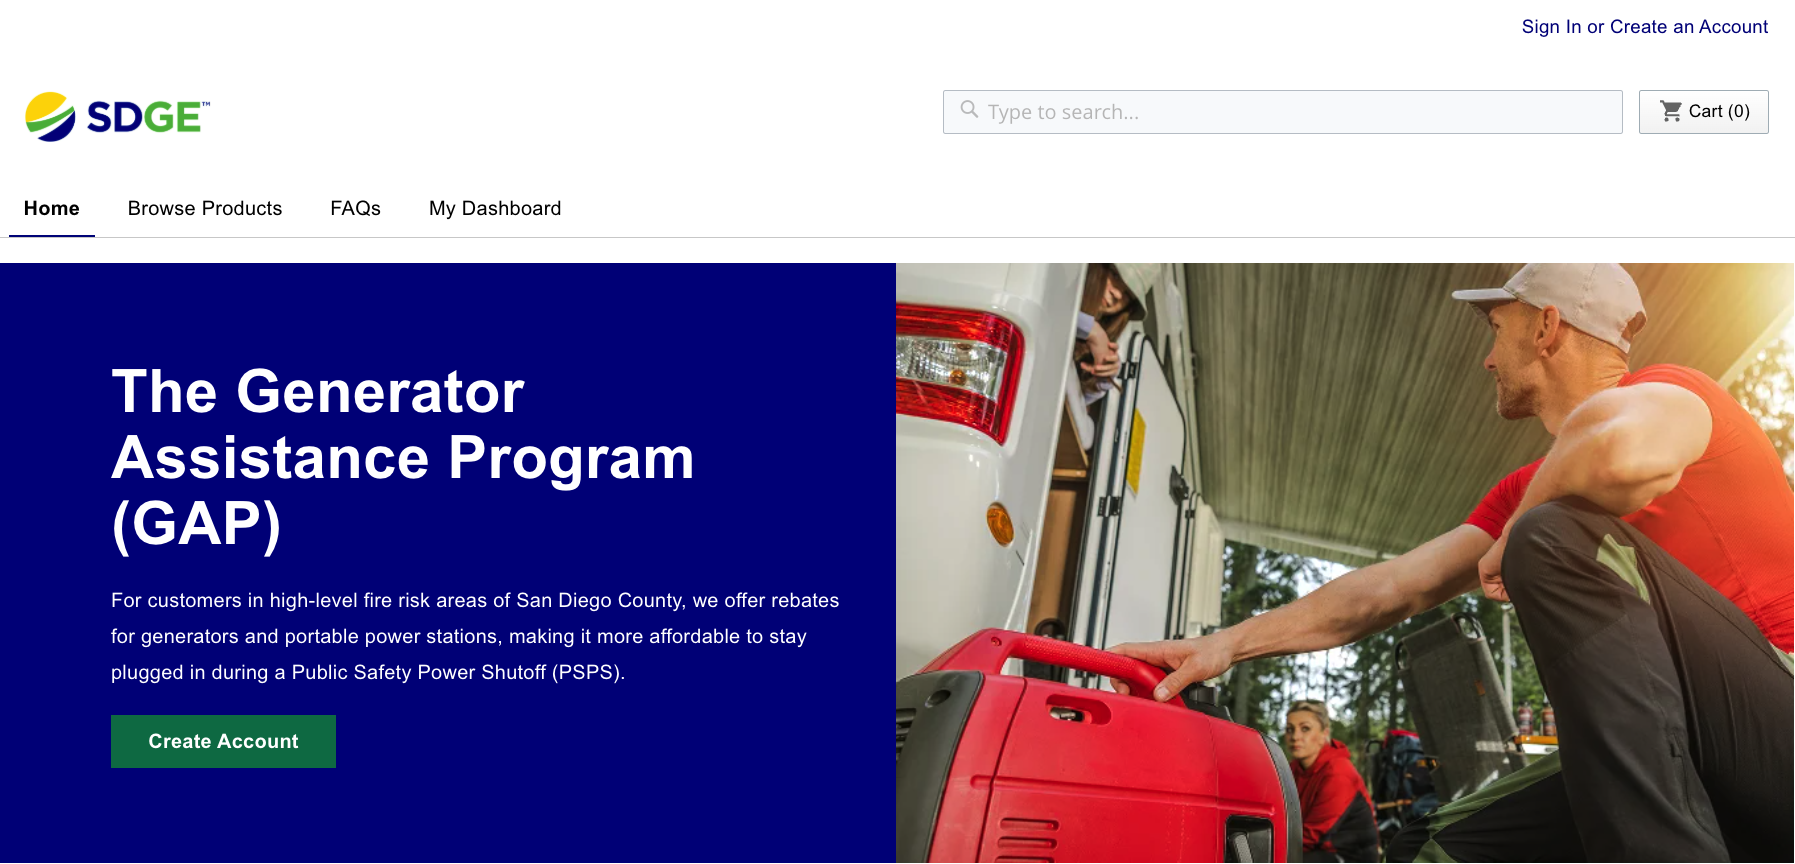
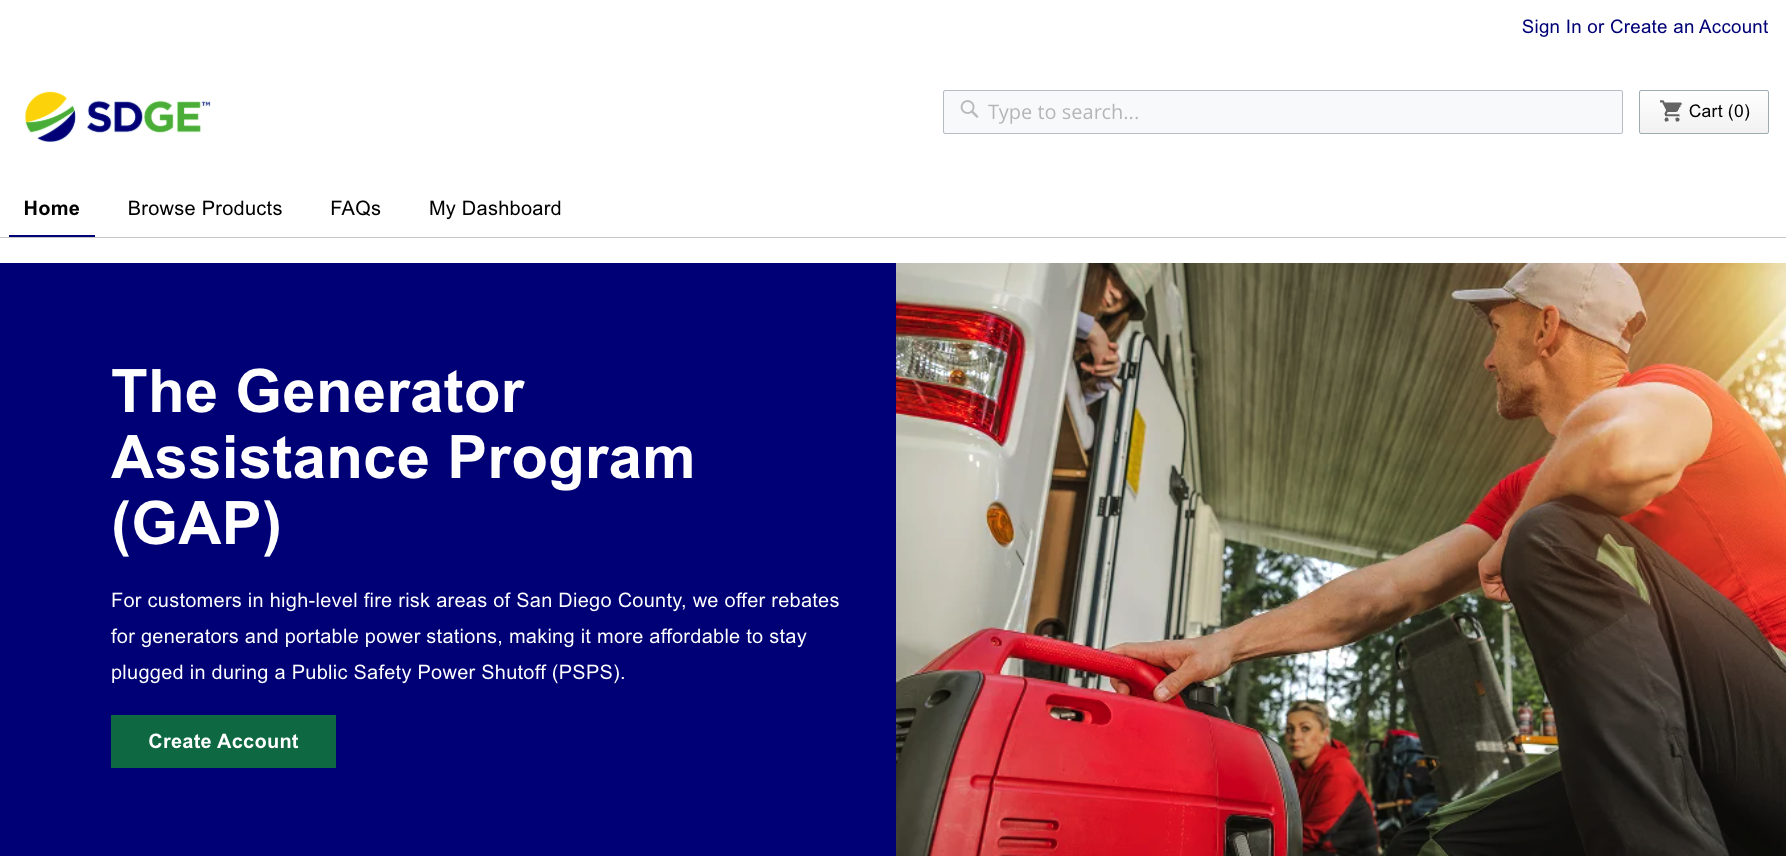
work in progress

diff --git a/index.html b/index.html
@@ -253,7 +253,7 @@ Marketing &amp; Ecommerce Website
 </span>
 
 <p>
-A program website that helps eligible customers apply
+Generator Assistance Program website that helps eligible customers apply
 for and order a backup generator, then track their
 application and installation status.
 </p>

diff --git a/style.css b/style.css
@@ -817,7 +817,6 @@ PROJECT DETAILS
 
 
 .project-section p {
-    max-width: 1100px;
 
     margin: 0;
 
